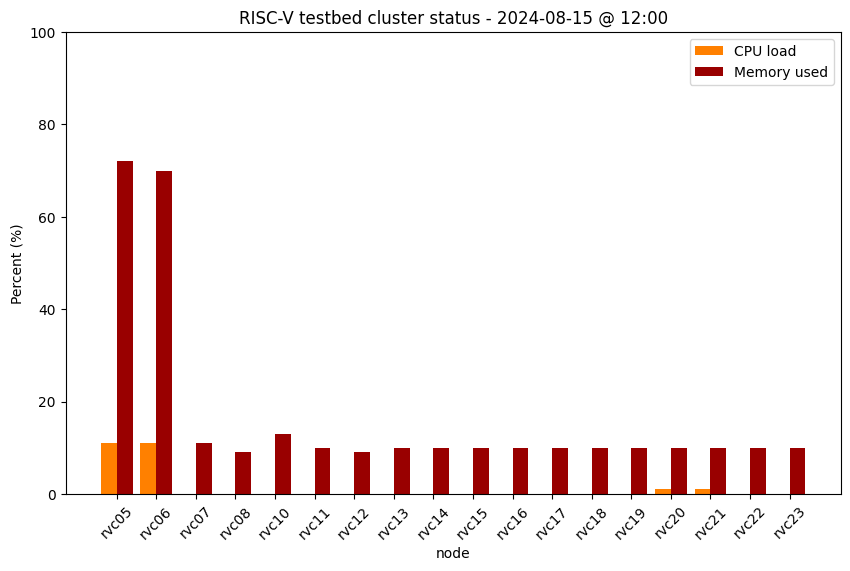
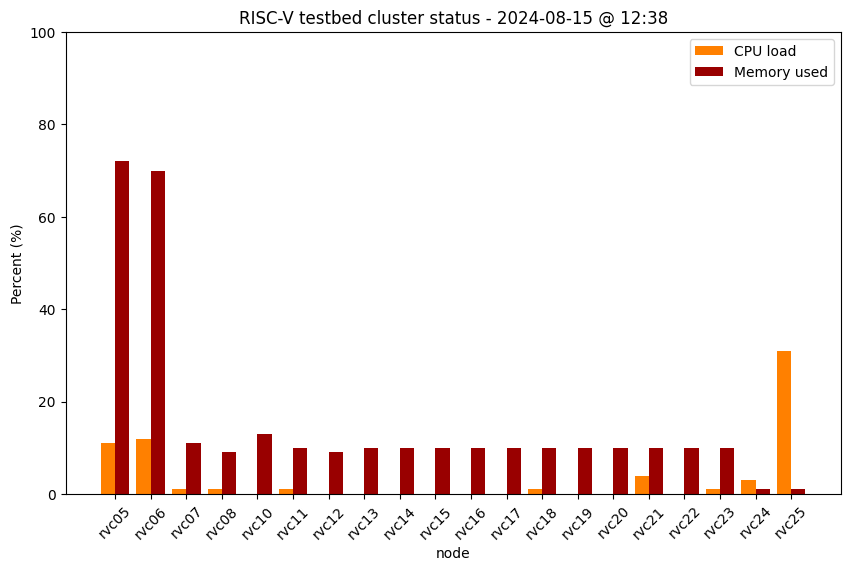
Update cluster status

Changed region(s): [[0.1224, 0.2977, 0.9482, 0.9527], [0.7647, 0.0, 0.7953, 0.0595]]

diff --git a/status.md b/status.md
@@ -36,6 +36,6 @@ permalink: /status/
 | StarFive VisionFive V2 #11 | rvc21 | 4 | 8GB | <img src="/images/on.png" alt="green light" width="10"/> up |
 | StarFive VisionFive V2 #12 | rvc22 | 4 | 8GB | <img src="/images/on.png" alt="green light" width="10"/> up |
 | StarFive VisionFive V2 #13 | rvc23 | 4 | 8GB | <img src="/images/on.png" alt="green light" width="10"/> up |
-| Milk-V Pioneer #1 | rvc24 | 64 | 128GB | <img src="/images/off.png" alt="red light" width="10"/> down |
-| Milk-V Pioneer #2 | rvc25 | 64 | 128GB | <img src="/images/off.png" alt="red light" width="10"/> down |
+| Milk-V Pioneer #1 | rvc24 | 64 | 128GB | <img src="/images/on.png" alt="green light" width="10"/> up |
+| Milk-V Pioneer #2 | rvc25 | 64 | 128GB | <img src="/images/on.png" alt="green light" width="10"/> up |
 
